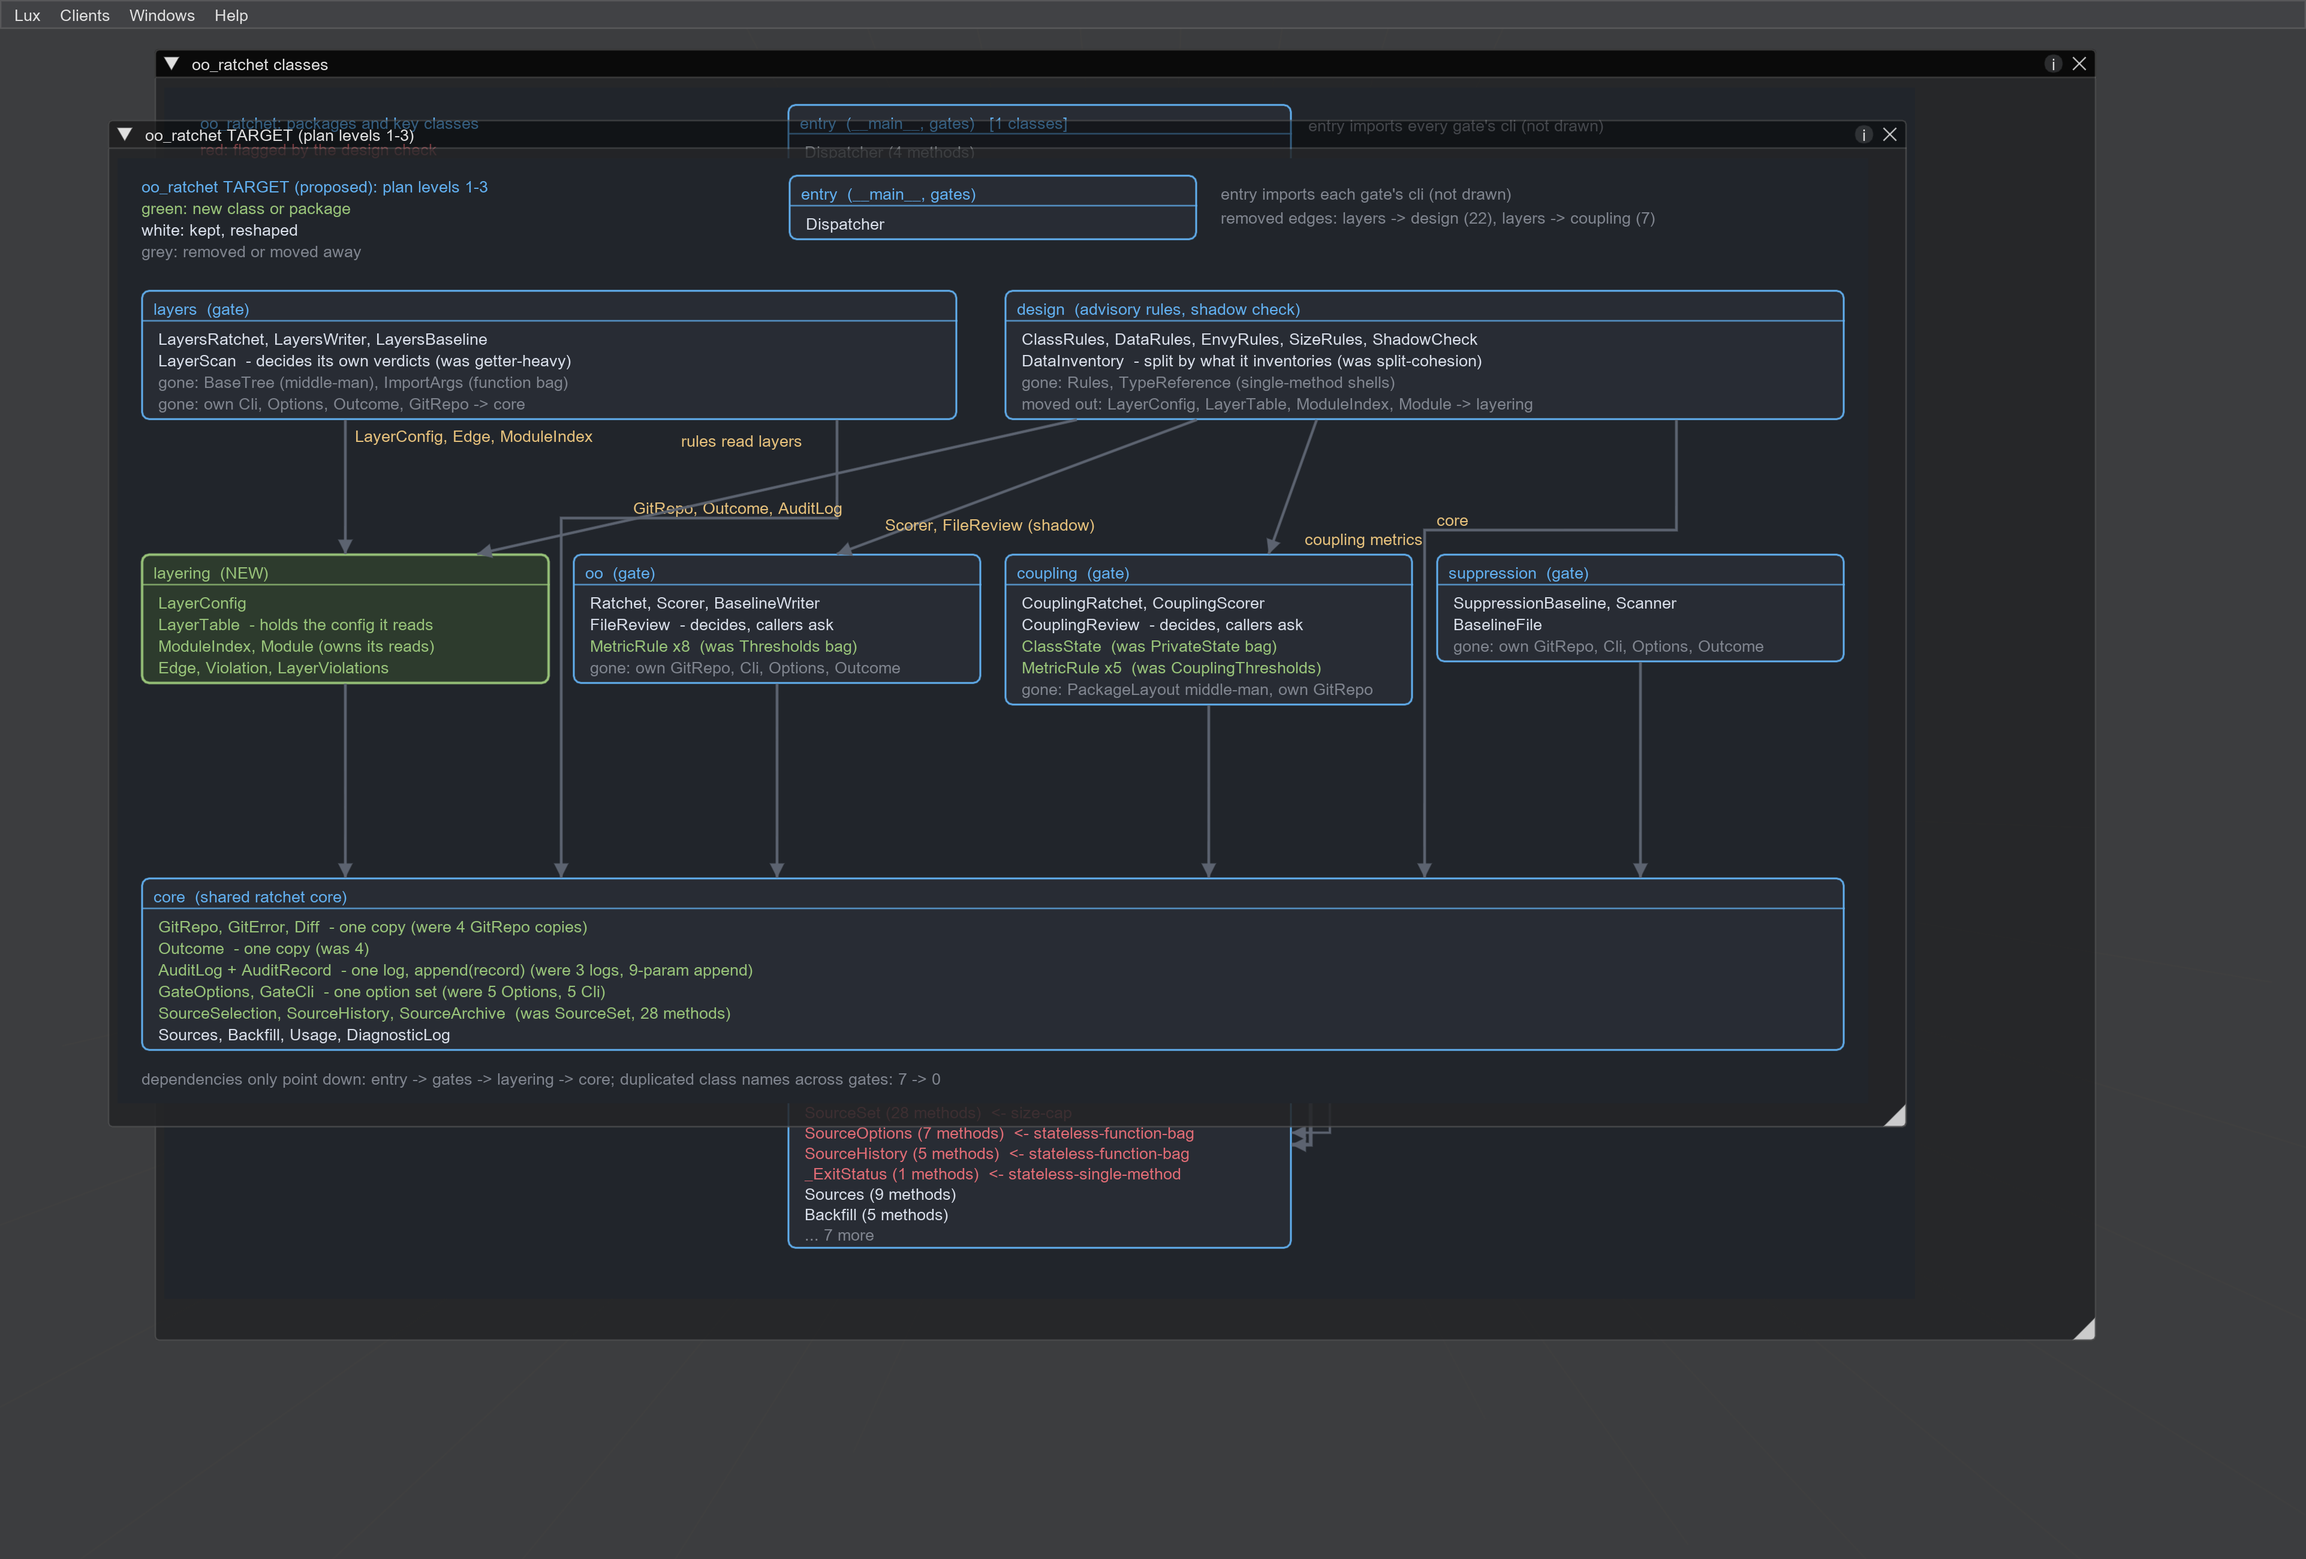
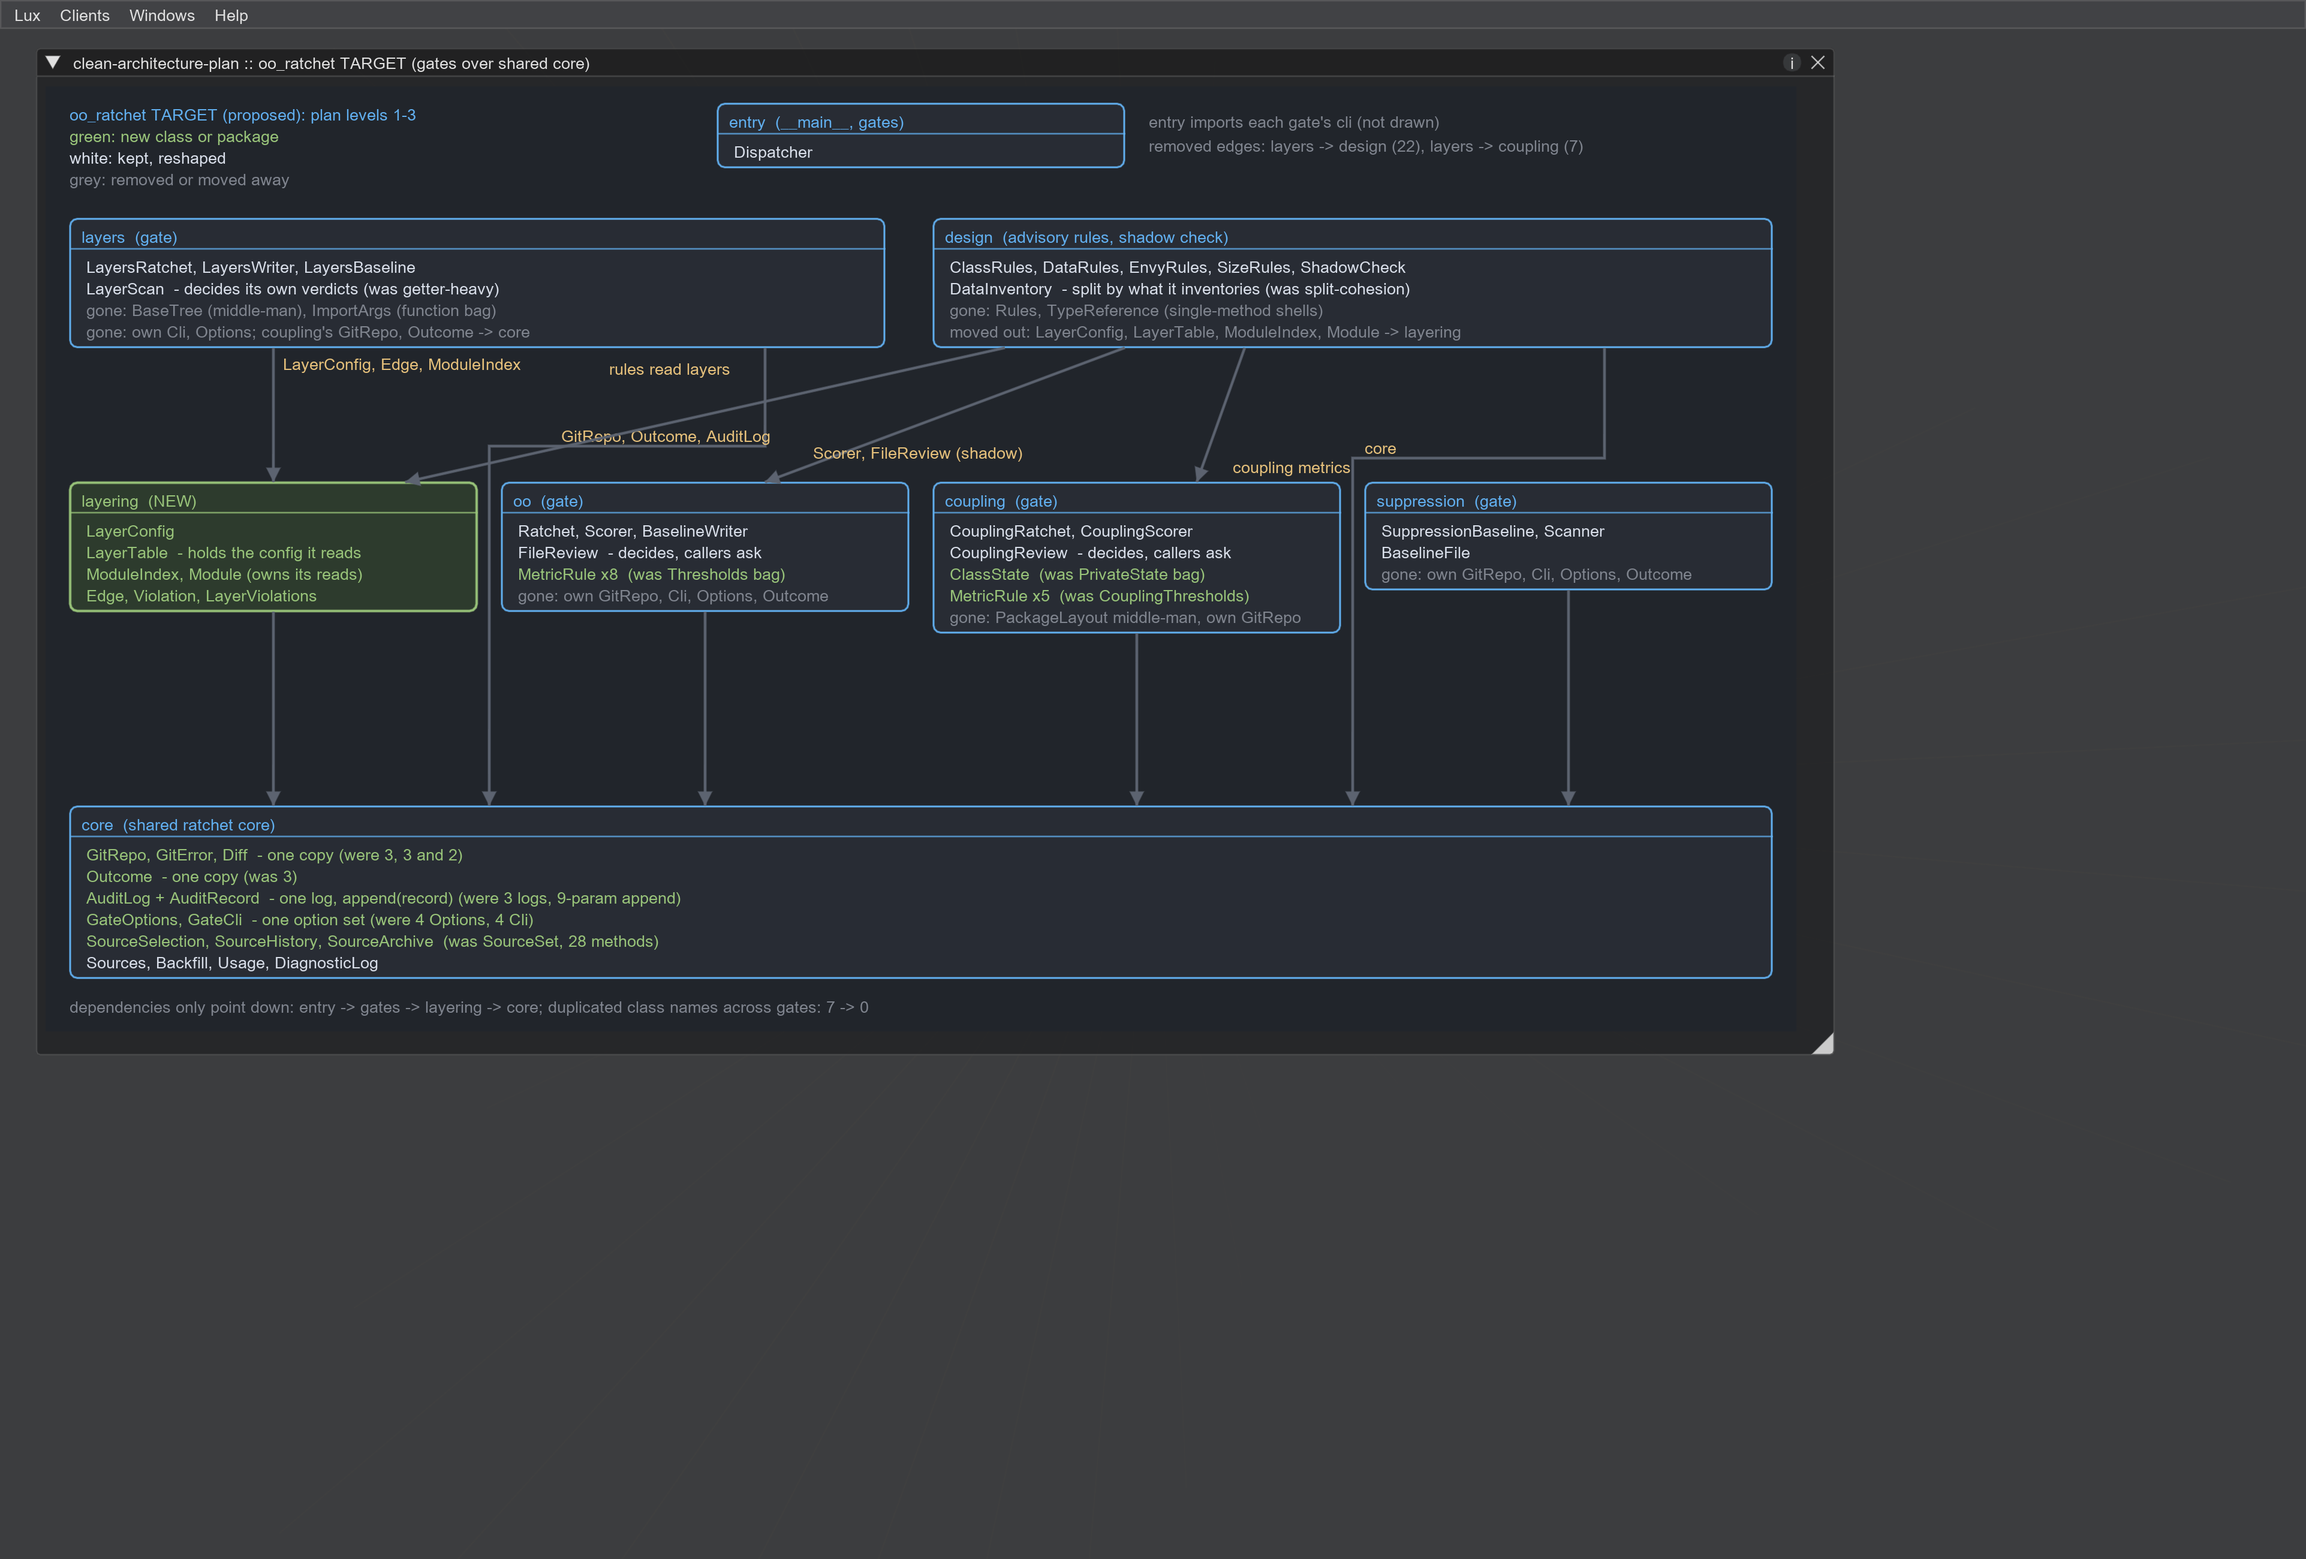
docs: correct duplicate-class counts; measurement scripts read the gate's thresholds
Qodo local review:
- compare_checks.py hardcoded the old 300-line module_size cap; it now reads
  each run's thresholds from oo-ratchet's own --json output (single source).
- compare_checks.py and adopter_shape.py raised a bare JSONDecodeError when
  oo-ratchet produced no JSON; they now exit with its message (verified:
  'oo-ratchet oo src/does_not_exist produced no JSON (exit 1): Not found').
- The target diagrams overstated the duplicates. Source counts: GitRepo 3,
  GitError 3, Outcome 3, Options 4, Cli 4, Diff 2, Row 2; layers has its own
  Cli and Options only. Both diagrams regenerated and re-screenshotted.

The plan documents redrawing through 'lux scene show <id> --from'.

diff --git a/docs/architecture/tools/compare_checks.py b/docs/architecture/tools/compare_checks.py
@@ -8,19 +8,6 @@ import sys
 from pathlib import Path
 
 REPO = Path(sys.argv[1])
-TARGETS = {
-    "method_ratio": (">=", 0.80),
-    "encapsulation_ratio": (">=", 1.0),
-    "avg_params": ("<=", 4.0),
-    "max_complexity": ("<=", 10),
-    "avg_complexity": ("<=", 5.0),
-    "module_size": ("<=", 300),
-    "classes_per_module": ("<=", 3),
-    "class_to_func_ratio": (">=", 0.5),
-    "init_violations": ("==", 0),
-    "public_attr_violations": ("==", 0),
-    "future_annotations": ("==", 1),
-}
 
 
 def meets(op: str, target: float, value: float) -> bool:
@@ -32,20 +19,28 @@ def meets(op: str, target: float, value: float) -> bool:
 
 
 def run(*args: str) -> dict:
+    """Run oo-ratchet with --json. Exit 1 is normal (a target failed); no JSON is not."""
     out = subprocess.run(
         ["oo-ratchet", *args, "--json"], cwd=REPO, capture_output=True, text=True
     )
-    return json.loads(out.stdout)
+    try:
+        return json.loads(out.stdout)
+    except json.JSONDecodeError:
+        sys.exit(f"oo-ratchet {' '.join(args)} produced no JSON (exit {out.returncode}): "
+                 f"{(out.stderr or out.stdout).strip()}")
 
 
 def primary_fails(src: str) -> list[str]:
+    """Per-file target failures, using the gate's own thresholds from its output."""
+    data = run("oo", src)
+    targets = {m: rule.split() for m, rule in data["thresholds"].items()}
     fails = []
-    for row in run("oo", src)["per_file"]:
+    for row in data["per_file"]:
         name = Path(row["file"]).name
         if name == "__init__.py":
             continue  # identical empty package markers on both sides
-        for metric, (op, target) in TARGETS.items():
-            if not meets(op, target, row[metric]):
+        for metric, (op, target) in targets.items():
+            if not meets(op, float(target), row[metric]):
                 fails.append(f"{name}:{metric}={row[metric]}")
     return fails
 

diff --git a/docs/architecture/tools/adopter_shape.py b/docs/architecture/tools/adopter_shape.py
@@ -12,20 +12,29 @@ SRC = sys.argv[1]
 
 
 def run(*args: str) -> dict[str, object]:
+    """Run oo-ratchet with --json. Exit 1 is normal (a target failed); no JSON is not."""
     out = subprocess.run(
         ["oo-ratchet", *args, "--json"], capture_output=True, text=True, check=False
     )
-    return json.loads(out.stdout)
+    try:
+        return json.loads(out.stdout)
+    except json.JSONDecodeError:
+        sys.exit(f"oo-ratchet {' '.join(args)} produced no JSON (exit {out.returncode}): "
+                 f"{(out.stderr or out.stdout).strip()}")
 
 
-rows = [r for r in run("oo", SRC)["per_file"] if not r["file"].endswith("__init__.py")]  # type: ignore[index]
+oo = run("oo", SRC)
+rows = [r for r in oo["per_file"] if not r["file"].endswith("__init__.py")]  # type: ignore[index]
+if not rows:
+    sys.exit(f"no scored modules under {SRC}")
+ceiling = int(float(str(oo["thresholds"]["module_size"]).split()[1]))  # type: ignore[index]
 sizes = sorted(int(r["module_size"]) for r in rows)
 classes = Counter(int(r["classes_per_module"]) for r in rows)
 print(f"modules (excl. __init__): {len(sizes)}")
 print(f"module_size median {statistics.median(sizes)}, p25 {sizes[len(sizes) // 4]}, "
       f"p75 {sizes[3 * len(sizes) // 4]}, max {sizes[-1]}")
 print(f"modules <= 40 code lines: {sum(s <= 40 for s in sizes)}")
-print(f"modules > 300 (primary cap): {sum(s > 300 for s in sizes)}")
+print(f"modules > {ceiling} (module_size ceiling): {sum(s > ceiling for s in sizes)}")
 print(f"classes per module: {dict(sorted(classes.items()))}")
 
 design = run("design", SRC)

diff --git a/docs/architecture/tools/target_diagram.py b/docs/architecture/tools/target_diagram.py
@@ -23,7 +23,7 @@ BOXES: dict[str, tuple[str, int, int, int, list[tuple[str, str]], bool]] = {
         ("LayersRatchet, LayersWriter, LayersBaseline", FG),
         ("LayerScan  - decides its own verdicts (was getter-heavy)", FG),
         ("gone: BaseTree (middle-man), ImportArgs (function bag)", GREY),
-        ("gone: own Cli, Options, Outcome, GitRepo -> core", GREY),
+        ("gone: own Cli, Options; coupling's GitRepo, Outcome -> core", GREY),
     ], False),
     "design": ("design  (advisory rules, shadow check)", 740, 110, 1440, [
         ("ClassRules, DataRules, EnvyRules, SizeRules, ShadowCheck", FG),
@@ -56,10 +56,10 @@ BOXES: dict[str, tuple[str, int, int, int, list[tuple[str, str]], bool]] = {
         ("gone: own GitRepo, Cli, Options, Outcome", GREY),
     ], False),
     "core": ("core  (shared ratchet core)", 20, 600, 1440, [
-        ("GitRepo, GitError, Diff  - one copy (were 4 GitRepo copies)", GREEN),
-        ("Outcome  - one copy (was 4)", GREEN),
+        ("GitRepo, GitError, Diff  - one copy (were 3, 3 and 2)", GREEN),
+        ("Outcome  - one copy (was 3)", GREEN),
         ("AuditLog + AuditRecord  - one log, append(record) (were 3 logs, 9-param append)", GREEN),
-        ("GateOptions, GateCli  - one option set (were 5 Options, 5 Cli)", GREEN),
+        ("GateOptions, GateCli  - one option set (were 4 Options, 4 Cli)", GREEN),
         ("SourceSelection, SourceHistory, SourceArchive  (was SourceSet, 28 methods)", GREEN),
         ("Sources, Backfill, Usage, DiagnosticLog", FG),
     ], False),

diff --git a/docs/architecture/tools/clean_diagram.py b/docs/architecture/tools/clean_diagram.py
@@ -125,8 +125,9 @@ text(X0, 54, "Adapters implement the application's ports (orange bracket: "
      "GitRepo implements History). The domain imports no git, files, json or os.", FG)
 text(X0, 72, "Enforced on itself by the clean layers ratchet: inward-only imports plus "
      "domain purity, a violation baseline that may only shrink.", GREY)
-text(X0, y + 4, "gone vs today: 4 GitRepo copies, 4 Outcome, 5 Options, 5 Cli, 3 audit logs "
-     "-> one each in the shared column; layers no longer imports design.", GREY)
+text(X0, y + 4, "gone vs today: 3 GitRepo, 3 GitError, 3 Outcome, 4 Options, 4 Cli, 2 Diff, "
+     "2 Row, 3 audit logs -> one each in the shared column; layers no longer imports design.",
+     GREY)
 
 element = {"kind": "draw", "id": "clean", "width": 1460, "height": int(y + 30),
            "bg_color": "#21252b", "commands": cmds}

diff --git a/docs/clean-architecture-plan.md b/docs/clean-architecture-plan.md
@@ -163,7 +163,14 @@ Three measurement scripts sit beside them:
 | `adopter_shape.py <src>` | module size distribution, classes per module, and design finding counts (run with `uv run --directory <repo> python ...`) |
 | `compare_checks.py <repo>` | the OO gate and the design check on each `evals/design` bad/good pair |
 
-Each script writes one lux `draw` element as JSON. Pass it as the single
-entry in `scene_show`'s `elements` list. Run `class_diagram.py` with
-`uv run --directory <repo> python ...`, because it calls `oo-ratchet`.
+Each script writes one lux `draw` element as JSON. To show it:
+
+1. Wrap it in a lux render request:
+   `{"scene_id": "<id>", "elements": [<element>], "title": "<title>",
+   "frame": {"size": [1500, 840]}}`.
+2. Run `lux display start`, then `lux scene show <id> --from request.json`.
+3. Capture the image with lux's `display_screenshot` tool.
+
+Run `class_diagram.py` with `uv run --directory <repo> python ...`, because
+it calls `oo-ratchet`.
 B6 (PL-1714) replaces the current-state script with `layers --json`.

diff --git a/resume.md b/resume.md
@@ -71,9 +71,10 @@ make update-oo update-coupling OO_BASE="--base-ref $BASE" COUPLING_BASE="--base-
 - **A justified average or stale-row regression:** use
   `uv run oo-ratchet oo src/oo_ratchet/ --relax <file> --justify "<why>" --source <PL-id>`.
   The coupling gate has the same command.
-- **Diagrams:** start lux with `lux display start`, generate the JSON with a
-  script in `docs/architecture/tools/`, and pass it to lux's `scene_show` as
-  the single element.
+- **Diagrams:** generate the JSON with a script in
+  `docs/architecture/tools/`, then show it with
+  `lux scene show <id> --from request.json`. The plan's Diagrams section
+  gives the request format.
 
 ## Lessons from the planning machine
 
